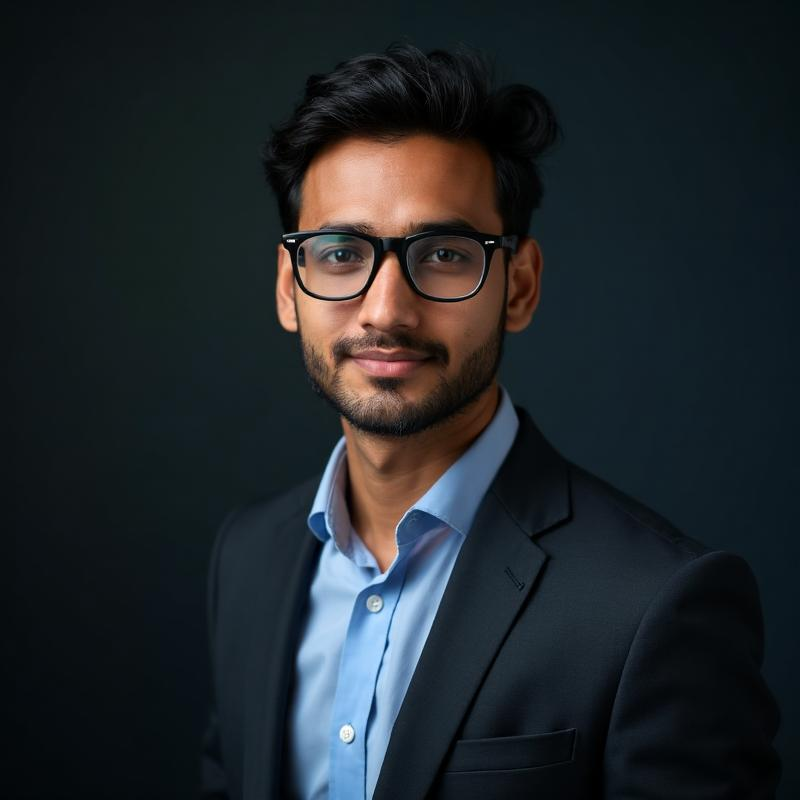
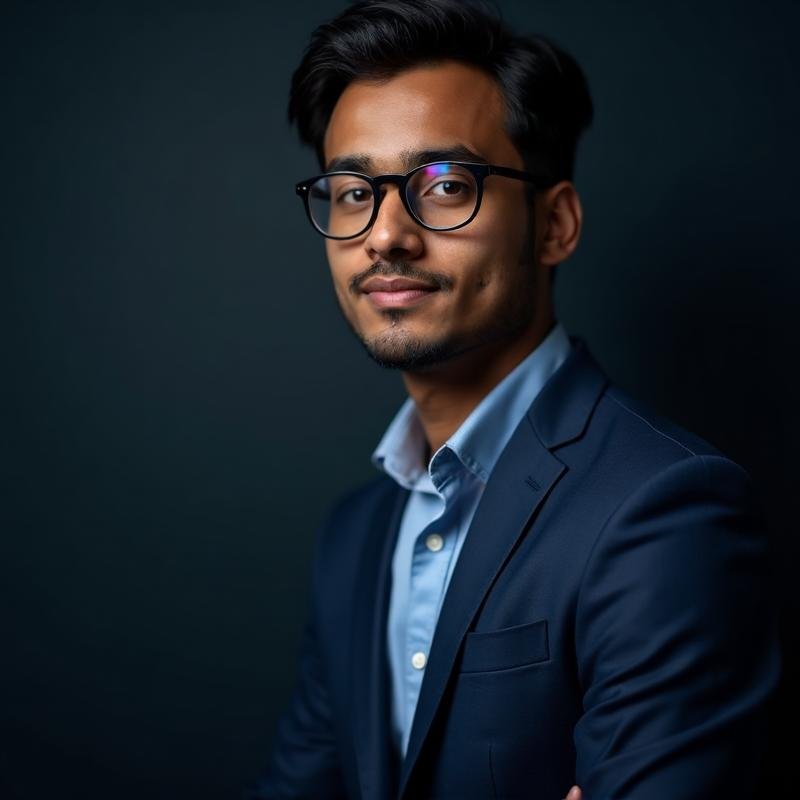
Update hero image and effects

diff --git a/src/components/Hero.tsx b/src/components/Hero.tsx
@@ -154,31 +154,41 @@ export const Hero = () => {
               onMouseLeave={() => setMousePosition({ x: 0, y: 0 })}
             >
               <div
-                className="glass-card p-6 rounded-3xl transition-transform duration-500 ease-out animate-float"
+                className="glass-card p-6 rounded-3xl transition-all duration-700 ease-out animate-float group-hover:scale-105"
                 style={{
-                  transform: `perspective(1000px) rotateY(${mousePosition.x}deg) rotateX(${-mousePosition.y}deg)`,
+                  transform: `perspective(1200px) rotateY(${mousePosition.x}deg) rotateX(${-mousePosition.y}deg) scale(${mousePosition.x || mousePosition.y ? 1.02 : 1})`,
                 }}
               >
-                <div className="relative">
-                  {/* Glow effect behind image */}
-                  <div className="absolute inset-0 bg-gradient-to-br from-primary to-accent rounded-2xl blur-2xl opacity-30 group-hover:opacity-50 transition-opacity duration-500" />
+                <div className="relative overflow-hidden rounded-2xl">
+                  {/* Animated gradient glow behind image */}
+                  <div className="absolute inset-0 bg-gradient-to-br from-primary via-accent to-primary rounded-2xl blur-2xl opacity-30 group-hover:opacity-60 transition-all duration-700 animate-glow-pulse" />
+                  
+                  {/* Shimmer effect overlay */}
+                  <div className="absolute inset-0 bg-gradient-to-r from-transparent via-white/10 to-transparent -translate-x-full group-hover:translate-x-full transition-transform duration-1000 ease-in-out" />
                   
                   {/* Portrait image */}
                   <img
                     src={portraitImage}
                     alt="Kalyan Sadhukhan - Web Developer"
-                    className="relative rounded-2xl w-full max-w-md shadow-2xl"
+                    className="relative rounded-2xl w-full max-w-md shadow-2xl transform group-hover:scale-105 transition-transform duration-700 ease-out"
                     loading="eager"
                   />
                   
-                  {/* Vignette overlay */}
-                  <div className="absolute inset-0 rounded-2xl bg-gradient-to-t from-background/80 via-transparent to-transparent" />
+                  {/* Vignette overlay with enhanced blend */}
+                  <div className="absolute inset-0 rounded-2xl bg-gradient-to-t from-background/90 via-background/20 to-transparent group-hover:from-background/70 transition-all duration-500" />
+                  
+                  {/* Accent border on hover */}
+                  <div className="absolute inset-0 rounded-2xl border-2 border-primary/0 group-hover:border-primary/30 transition-all duration-500" />
                 </div>
               </div>
 
-              {/* Decorative elements */}
-              <div className="absolute -top-4 -right-4 w-24 h-24 bg-primary/20 rounded-full blur-3xl animate-glow-pulse" />
-              <div className="absolute -bottom-4 -left-4 w-32 h-32 bg-accent/20 rounded-full blur-3xl animate-glow-pulse" style={{ animationDelay: "1s" }} />
+              {/* Animated decorative light orbs */}
+              <div className="absolute -top-6 -right-6 w-28 h-28 bg-primary/30 rounded-full blur-3xl animate-glow-pulse group-hover:bg-primary/50 transition-all duration-500" />
+              <div className="absolute -bottom-6 -left-6 w-36 h-36 bg-accent/30 rounded-full blur-3xl animate-glow-pulse group-hover:bg-accent/50 transition-all duration-500" style={{ animationDelay: "1s" }} />
+              
+              {/* Floating accent rings */}
+              <div className="absolute top-1/4 -left-8 w-20 h-20 border-2 border-primary/20 rounded-full animate-float group-hover:border-primary/40 transition-colors duration-500" style={{ animationDelay: "0.5s", animationDuration: "4s" }} />
+              <div className="absolute bottom-1/4 -right-8 w-16 h-16 border-2 border-accent/20 rounded-full animate-float group-hover:border-accent/40 transition-colors duration-500" style={{ animationDelay: "1.5s", animationDuration: "5s" }} />
             </div>
           </div>
         </div>
